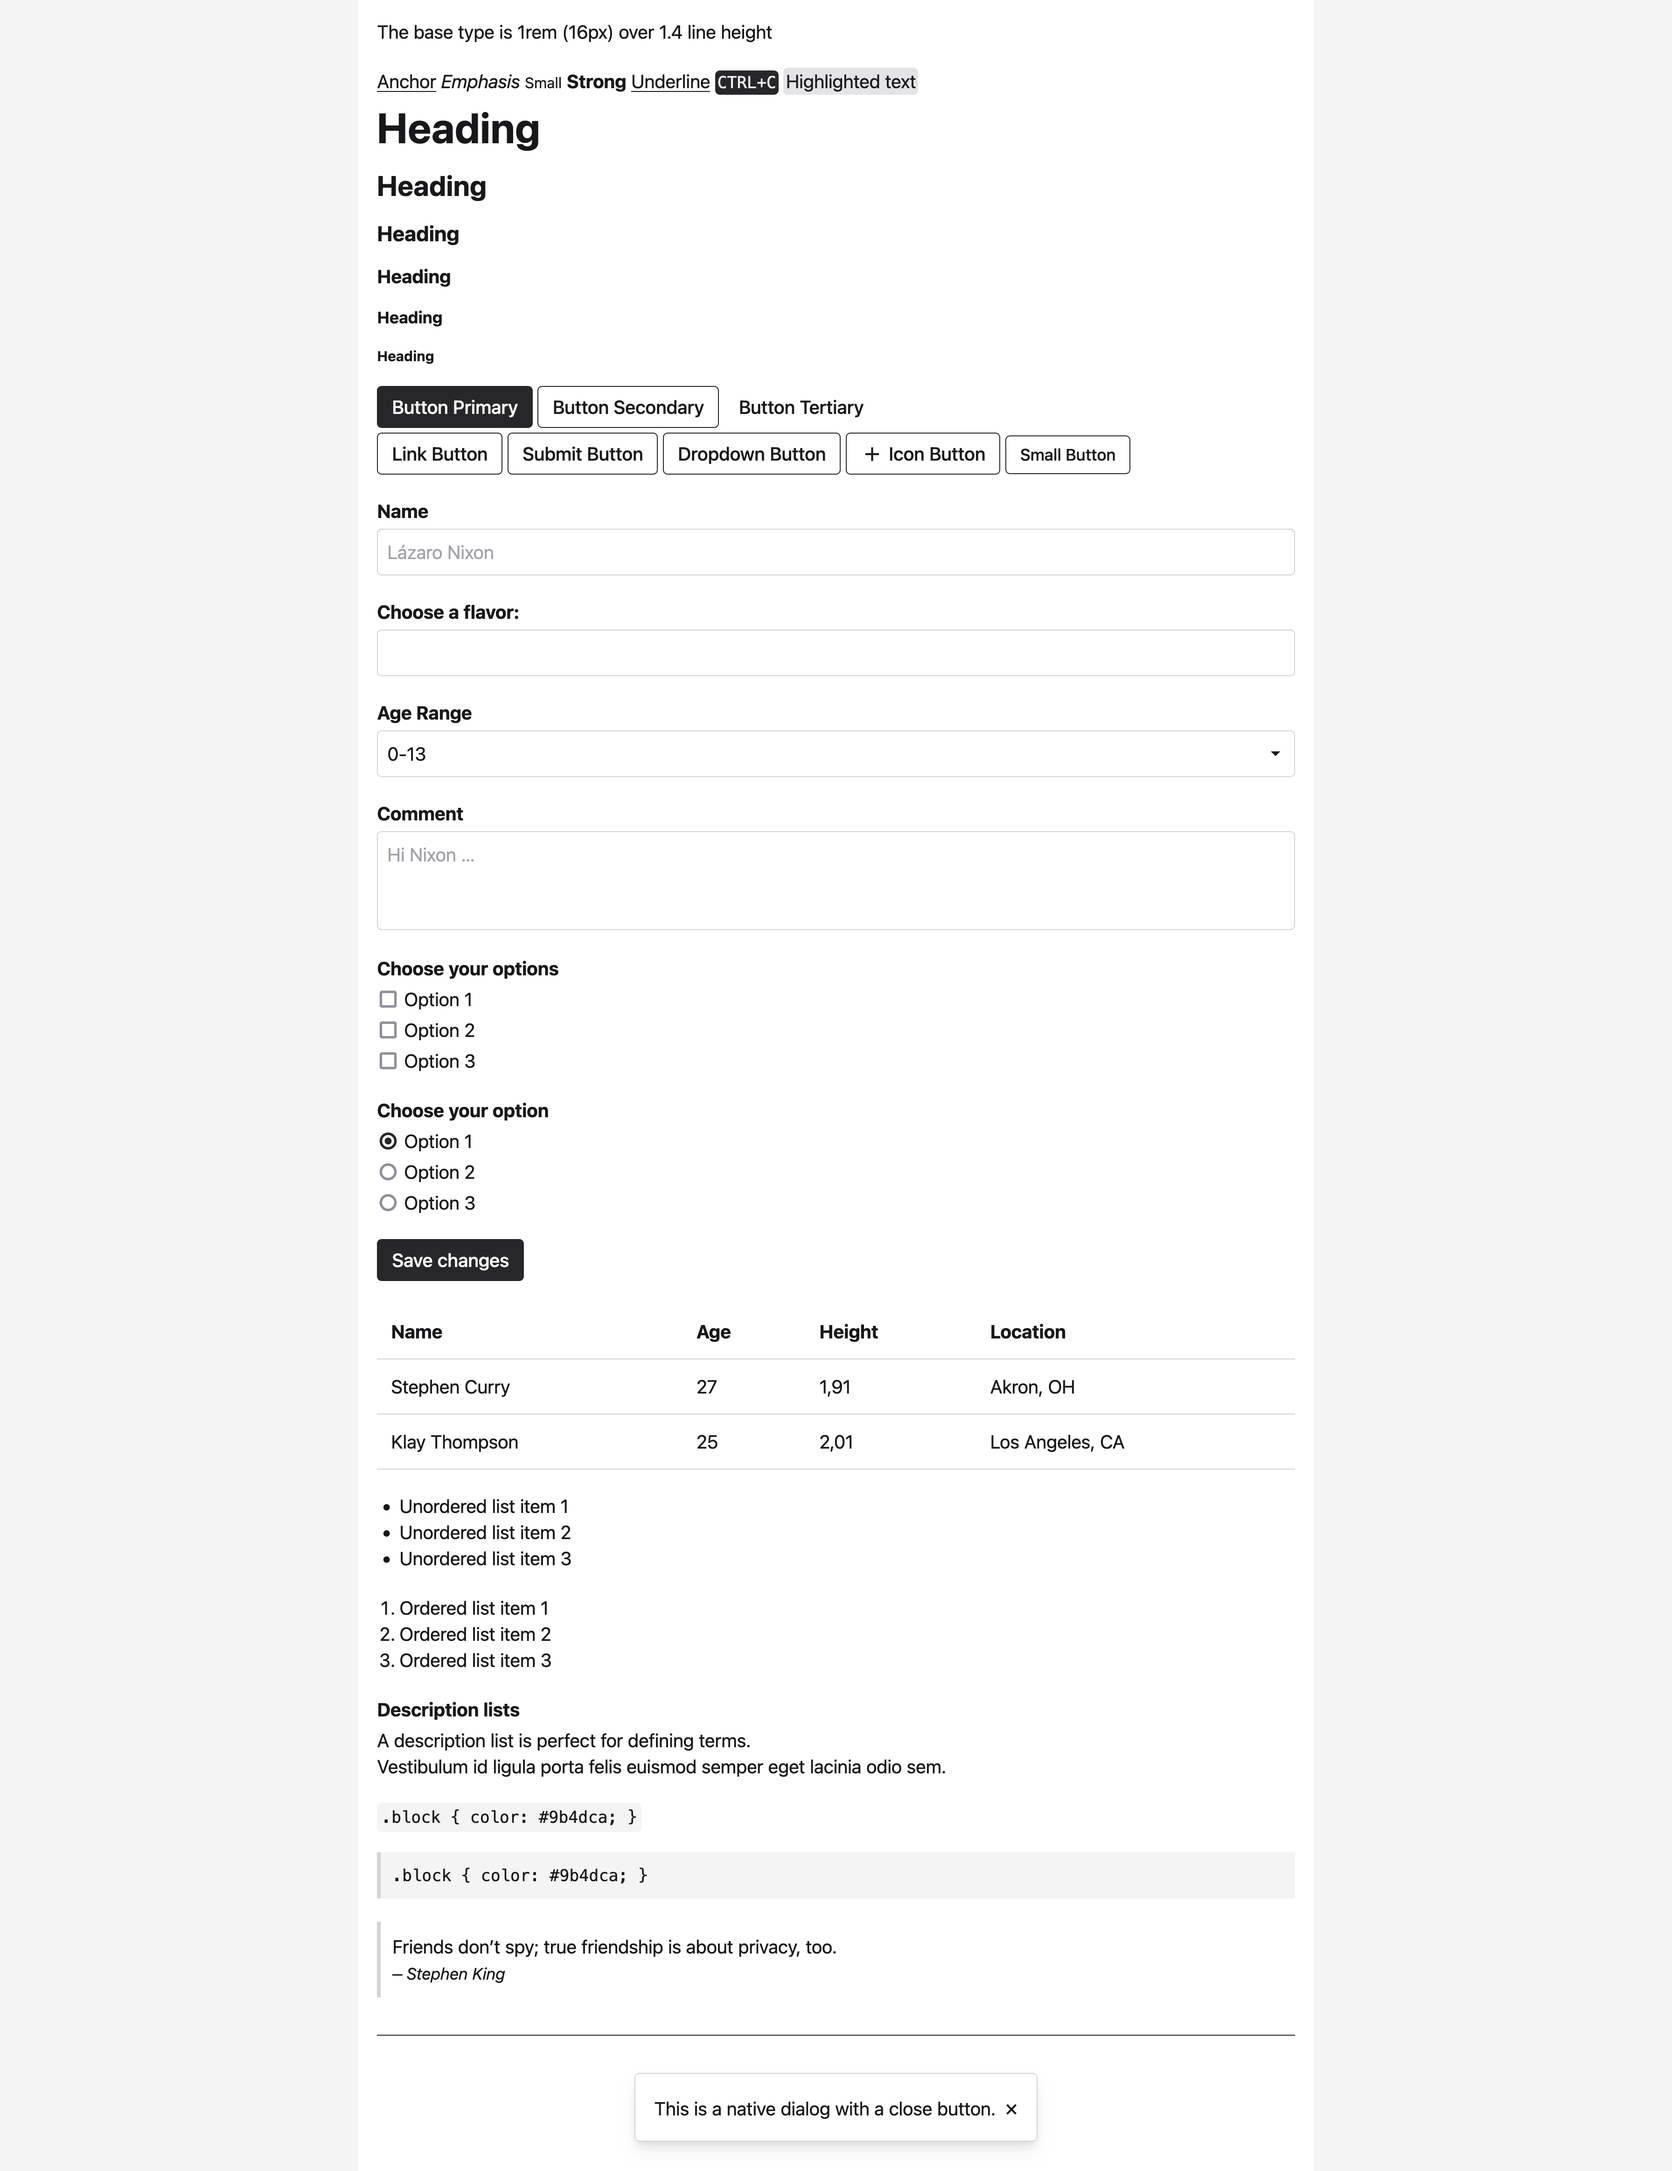
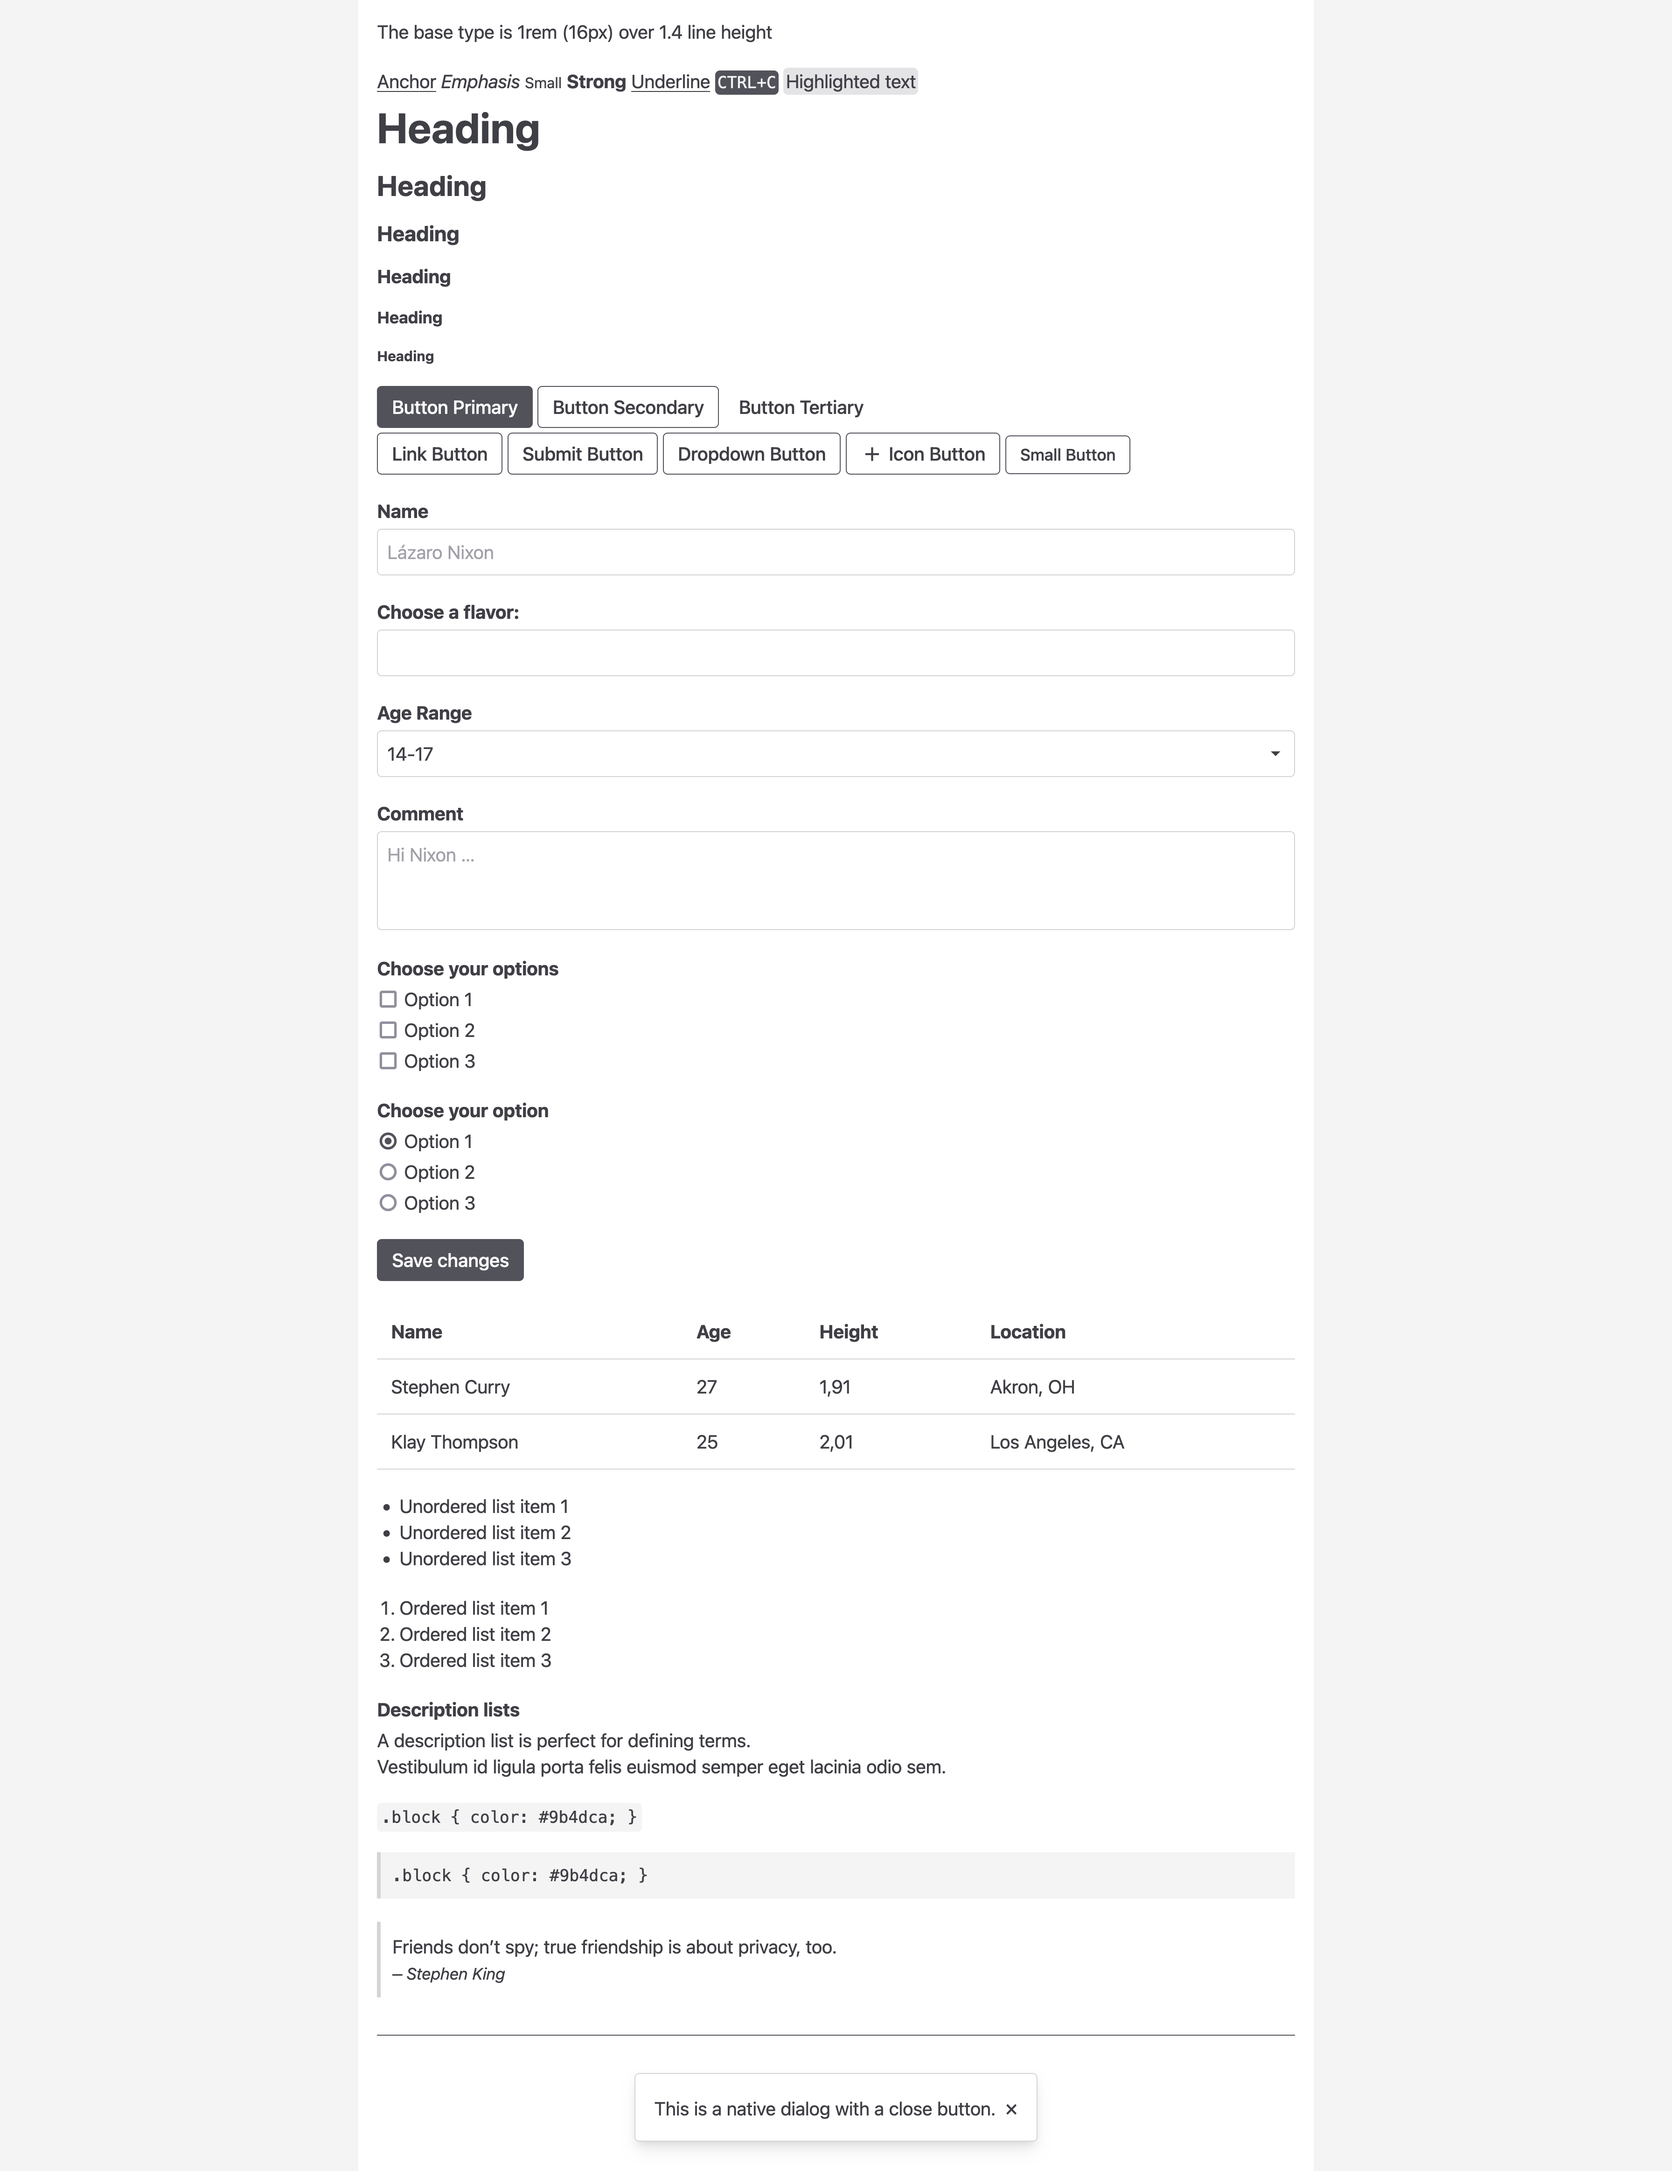
adjust breadboard colors

diff --git a/app/assets/stylesheets/sass-zero/breadboard.scss b/app/assets/stylesheets/sass-zero/breadboard.scss
@@ -11,18 +11,18 @@ $radius-secondary: $rounded;
   --color-bg--surface:   #{$white};
   --color-bg--highlight: #{$gray-200};
   --color-border:        #{$gray-300};
-  --color-primary:       #{$gray-800};
-  --color-text:          #{$gray-900};
+  --color-primary:       #{$gray-600};
+  --color-text:          #{$gray-700};
 }
 
 @media (prefers-color-scheme: dark) {
   :root {
-    --color-bg--main:      #{$gray-900};
-    --color-bg--surface:   #{$gray-800};
-    --color-bg--highlight: #{$gray-700};
-    --color-border:        #{$gray-600};
-    --color-primary:       #{$white};
-    --color-text:          #{$white};
+    --color-bg--main:      #{$blue-gray-900};
+    --color-bg--surface:   #{$blue-gray-800};
+    --color-bg--highlight: #{$blue-gray-700};
+    --color-border:        #{$blue-gray-300};
+    --color-primary:       #{$blue-gray-200};
+    --color-text:          #{$blue-gray-200};
   }
 }
 
